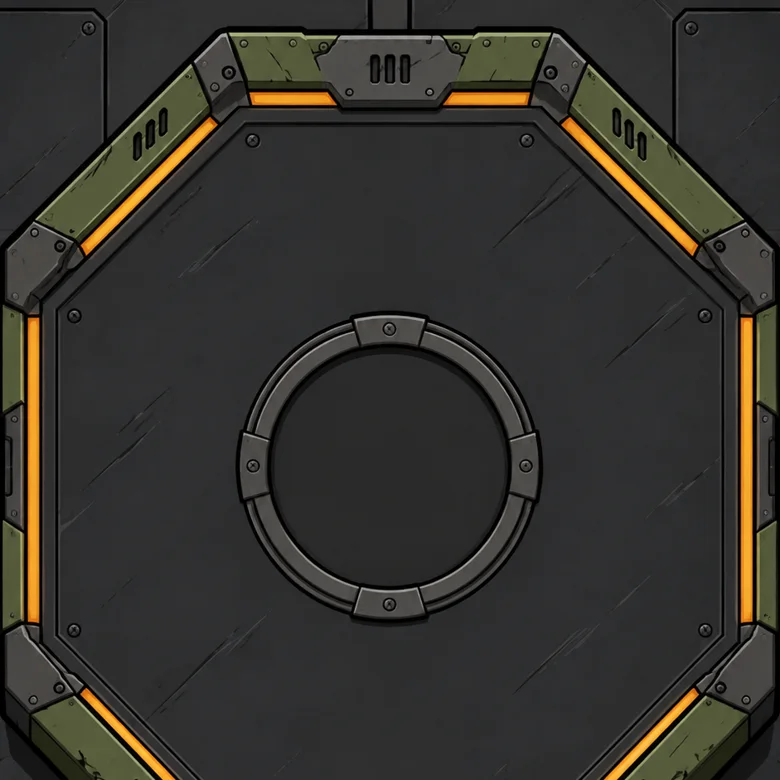
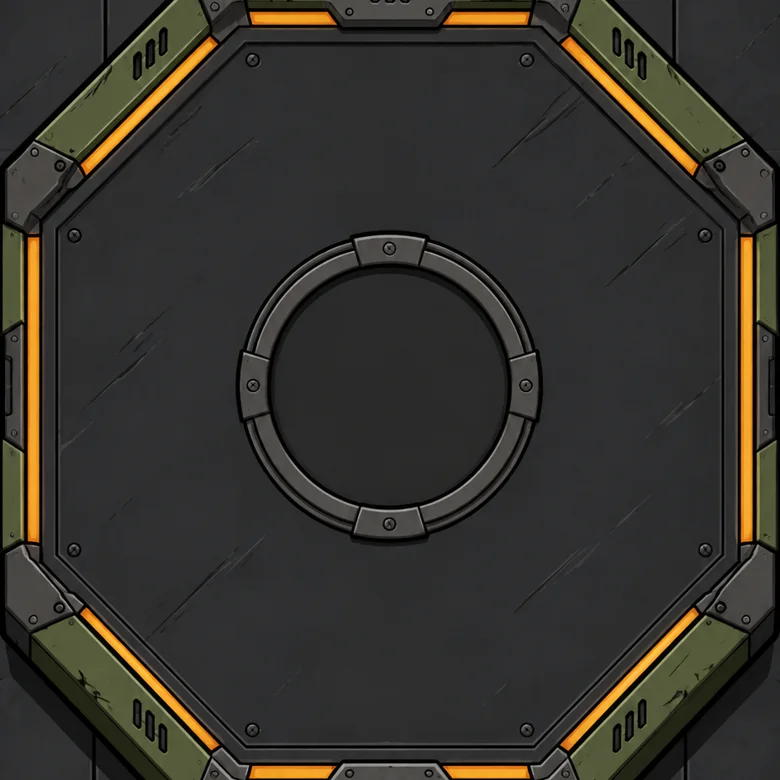
fix(menace): 圆桌裁切居中
Claude-Session: https://claude.ai/code/session_01D4YgysaSoamUvdbr6ierK3

diff --git a/apps/web/src/ta/Menace.tsx b/apps/web/src/ta/Menace.tsx
@@ -110,7 +110,7 @@ function Game({ snap, send, msg, clear, restart, host, online }: { snap: any; se
     <header className="ta-hud"><div className="ta-top"><b>{PHASE[v.phase]}{v.round ? ` · 第 ${v.round} 回合` : ""}</b><button className="ta-mute" onClick={() => setHelp(true)}>规则</button><button className="ta-mute" onClick={() => { setMute(!mute); setM(!mute); }}>{mute ? "开声音" : "静音"}</button><span className={online ? "" : "off"}>{online ? hint : "连接中断，正在重连…"}</span></div>
       <Bar label="氧气" v={v.oxygen} max={OXYGEN_MAX} cls="o" /><Bar label="能量" v={v.energy} max={ENERGY_GOAL} mark={ENERGY_SAFE} cls="e" /></header>
     <div className="ta-table"><div className="core" style={{ "--o": `${(v.oxygen / OXYGEN_MAX) * 100}%`, "--e": `${(v.energy / ENERGY_GOAL) * 100}%` } as any}><b>{v.phase === "action" ? v.players.reduce((n: number, p: any) => n + p.played, 0) : v.remaining}</b><small>{v.phase === "action" ? "已暗置" : v.phase === "resolve" ? "待揭示" : PHASE[v.phase]}</small></div>
-      {v.players.map((p: any) => { const n = v.players.length, a = ((p.seat - v.you + n) % n) / n * Math.PI * 2 + Math.PI / 2, x = 50 + 38 * Math.cos(a), y = 49 + 37 * Math.sin(a); return <button type="button" key={p.seat} style={{ left: `${x}%`, top: `${y}%` }} className={["ta-seat", v.waiting.includes(p.seat) ? "turn" : "", p.killed ? "dead" : "", p.exiled ? "exiled" : "", p.seat === v.you ? "me" : ""].join(" ")} onClick={() => setZoom({ src: "", text: "", node: <div className="ta-detail"><h3>{name(p.seat)}{p.seat === v.leader ? " · 任务领袖" : ""}</h3><p>手牌 {p.hand}　牌库 {p.deck}　本轮已出 {p.played}{p.killed ? "　已阵亡" : p.exiled ? "　已放逐" : ""}{snap.players.find((x: any) => x.playerId === snap.seats[p.seat])?.connected ? "" : "　离线"}</p>{p.agenda && p.seat !== v.you ? <p className="rev">身份：{AGENDA_TEXT[p.agenda][0]}</p> : null}{p.wounds.map((w: string, i: number) => <p key={i} className="wd">{WOUND_TEXT[w]}</p>)}{p.character ? zoomOf.char(p.character) : null}</div> })}>
+      {v.players.map((p: any) => { const n = v.players.length, a = ((p.seat - v.you + n) % n) / n * Math.PI * 2 + Math.PI / 2, x = 50 + 38 * Math.cos(a), y = 50 + 38 * Math.sin(a); return <button type="button" key={p.seat} style={{ left: `${x}%`, top: `${y}%` }} className={["ta-seat", v.waiting.includes(p.seat) ? "turn" : "", p.killed ? "dead" : "", p.exiled ? "exiled" : "", p.seat === v.you ? "me" : ""].join(" ")} onClick={() => setZoom({ src: "", text: "", node: <div className="ta-detail"><h3>{name(p.seat)}{p.seat === v.leader ? " · 任务领袖" : ""}</h3><p>手牌 {p.hand}　牌库 {p.deck}　本轮已出 {p.played}{p.killed ? "　已阵亡" : p.exiled ? "　已放逐" : ""}{snap.players.find((x: any) => x.playerId === snap.seats[p.seat])?.connected ? "" : "　离线"}</p>{p.agenda && p.seat !== v.you ? <p className="rev">身份：{AGENDA_TEXT[p.agenda][0]}</p> : null}{p.wounds.map((w: string, i: number) => <p key={i} className="wd">{WOUND_TEXT[w]}</p>)}{p.character ? zoomOf.char(p.character) : null}</div> })}>
         <i className="face">{p.character ? <img src={img("p_" + p.character)} alt="" /> : null}{p.seat === v.leader ? <u>★</u> : null}{p.played ? <s>{p.played}</s> : null}</i><b>{name(p.seat)}</b><small>手{p.hand} 库{p.deck}{p.wounds.length ? <em> 伤{p.wounds.length}</em> : null}</small>{p.agenda && p.seat !== v.you ? <small className="rev">{AGENDA_TEXT[p.agenda][0].split("（")[0]}</small> : null}{p.exiled ? <small className="rev">放逐</small> : p.killed ? <small className="rev">阵亡</small> : null}</button>; })}</div>
     <main className="ta-main">
       {host ? v.waiting.map((w: number) => { const pl = snap.players.find((p: any) => p.playerId === snap.seats[w]); return pl && !pl.connected ? <button key={w} className="ta-danger" onClick={() => send({ t: "auto", player: pl.playerId })}>{pl.name} 已离线，代为操作</button> : null; }) : null}

diff --git a/apps/web/src/ta/ta.css b/apps/web/src/ta/ta.css
@@ -191,3 +191,4 @@
 .ta-table{background:none;filter:none}.ta-table::before{content:"";position:absolute;inset:0;background:url(/assets/menace/table.webp) center/100% no-repeat;clip-path:polygon(29% 0,71% 0,100% 29%,100% 71%,71% 100%,29% 100%,0 71%,0 29%);filter:brightness(1.12) contrast(1.05)}.ta-table::after{content:"";position:absolute;inset:6%;border-radius:50%;pointer-events:none;background:radial-gradient(#ffc95a22,transparent 62%)}
 .ta-table .core{z-index:1;width:27%;background:radial-gradient(#0a0f10 56%,transparent 57%),conic-gradient(#7fd6ee var(--o),#ffffff14 0);box-shadow:0 0 18px #7fd6ee44}.ta-table .core::before{content:"";position:absolute;inset:-9%;border-radius:50%;background:radial-gradient(transparent 63%,#000 64%,transparent 65%),conic-gradient(#d6ef7a var(--e),transparent 0);-webkit-mask:radial-gradient(transparent 63%,#000 64%);mask:radial-gradient(transparent 63%,#000 64%)}
 .ta-gun svg{width:44vw;max-width:190px}.ta-main{margin-top:4px}
+.ta-table .core{width:25%}.ta-table::before{clip-path:none}
